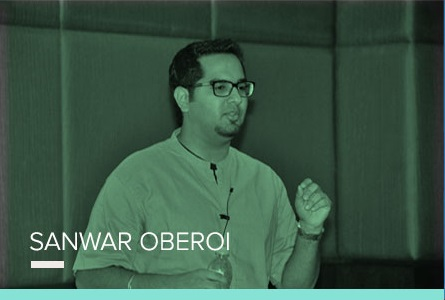
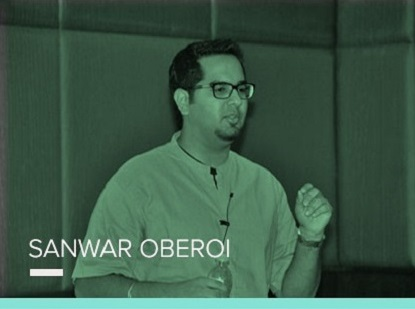
forteenth commit

diff --git a/app/views/main.html b/app/views/main.html
@@ -36,8 +36,6 @@
     </div>
     <div class="col-sm-6 col-md-4 colPadding">
       <a href="#" class="thumbnail speaker" id="speaker2">
-        <div class="name white""><span id="underline">SA</span>NWAR OBEROI
-        </div>
       </a>
     </div>
     <div class="col-sm-6 col-md-4 colPadding">
@@ -50,8 +48,6 @@
   <div class="row newRowTwo">
     <div class="col-sm-6 col-md-4 colPadding">
       <a href="#" class="thumbnail speaker" id="speaker4">
-        <div class="name white"><span id="underline">KA</span>YE JACOB
-        </div>
       </a>
     </div>
     <div class="col-sm-6 col-md-4 colPadding">
@@ -62,8 +58,6 @@
     </div>
     <div class="col-sm-6 col-md-4 colPadding">
       <a href="#" class="thumbnail speaker" id="speaker6">
-        <div class="name white"><span id="underline">RA</span>NJINI MANIAN
-        </div>
       </a>
     </div>
   </div>
@@ -242,7 +236,8 @@
             </div>
           </div>
           <div class="caption captionHeightTwo">
-            <p>A restaurant owner, a rally car driver and a record breaking swimmer.<a href="#">Know More</a></p>
+            <p class="whyTextPara">Entrepreneurs</br>
+              Technologists</br>Business Leaders</br>Investors</br>Innovators</p>
           </div>
           <div id="blue-line">
           </div>
@@ -276,7 +271,8 @@
             </div>
           </div>
           <div class="caption captionHeightTwo">
-            <p>A restaurant owner, a rally car driver and a record breaking swimmer.<a href="#">Know More</a></p>
+            <p class="whyTextPara">Learn Agile</br>Agile and Leaders</br>Agile Project Management</br>
+              Crisp Agile &</br>Many More....</p>
           </div>
           <div id="blue-line">
           </div>
@@ -292,7 +288,8 @@
             </div>
           </div>
           <div class="caption captionHeightTwo">
-            <p>A restaurant owner, a rally car driver and a record breaking swimmer.<a href="#">Know More</a></p>
+            <p class="whyTextPara">View the agenda in the summit brochure and all the information you need</br>
+              <button class="yellowButton">Brochure</button></p>
           </div>
           <div id="blue-line">
           </div>

diff --git a/app/styles/main.css b/app/styles/main.css
@@ -141,7 +141,7 @@ a#speaker1.thumbnail
 }
 a#speaker2.thumbnail
 {
-  background-image: url('../images/speaker2.png');
+  background-image: url('../images/icons-images/r1c2.jpg');
   /*background-color: #E87E04;
   width: 100% !important;
   height:300px;
@@ -167,7 +167,7 @@ a#speaker3.thumbnail
 }
 a#speaker4.thumbnail
 {
-  background-image: url('../images/speaker4.png');
+  background-image: url('../images/icons-images/r2c1.jpg');
   /*background-color: #E87E04;
   width: 100% !important;
   height:300px;
@@ -192,7 +192,7 @@ a#speaker5.thumbnail
 }
 a#speaker6.thumbnail
 {
-  background-image: url('../images/speaker6.png');
+  background-image: url('../images/icons-images/r2c3.jpg');
   /*background-color: #E87E04;
   width: 100% !important;
   height:300px;
@@ -604,6 +604,13 @@ div.thumbnail.bars.captionbar
 }
 p.whyTextPara
 {
-  font-family: times;
-  font-size: 20px;
+  font-family: helvetica;
+  font-size: 16px;
+  padding: 6% 6%;
+}
+button.yellowButton
+{
+  margin: 0% 31%;
+  background-color:#f8bf3a;
+  color:white;
 }

diff --git a/app/index.html b/app/index.html
@@ -15,6 +15,7 @@
     <link rel="stylesheet" href="bower_components/sass-bootstrap/dist/css/bootstrap.css" />
     <!-- endbower -->
     <!-- endbuild -->
+    <link href="//netdna.bootstrapcdn.com/font-awesome/4.0.3/css/font-awesome.css" rel="stylesheet">
     <!-- build:css({.tmp,app}) styles/main.css -->
     <link rel="stylesheet" href="styles/main.css">
     <!-- endbuild -->
